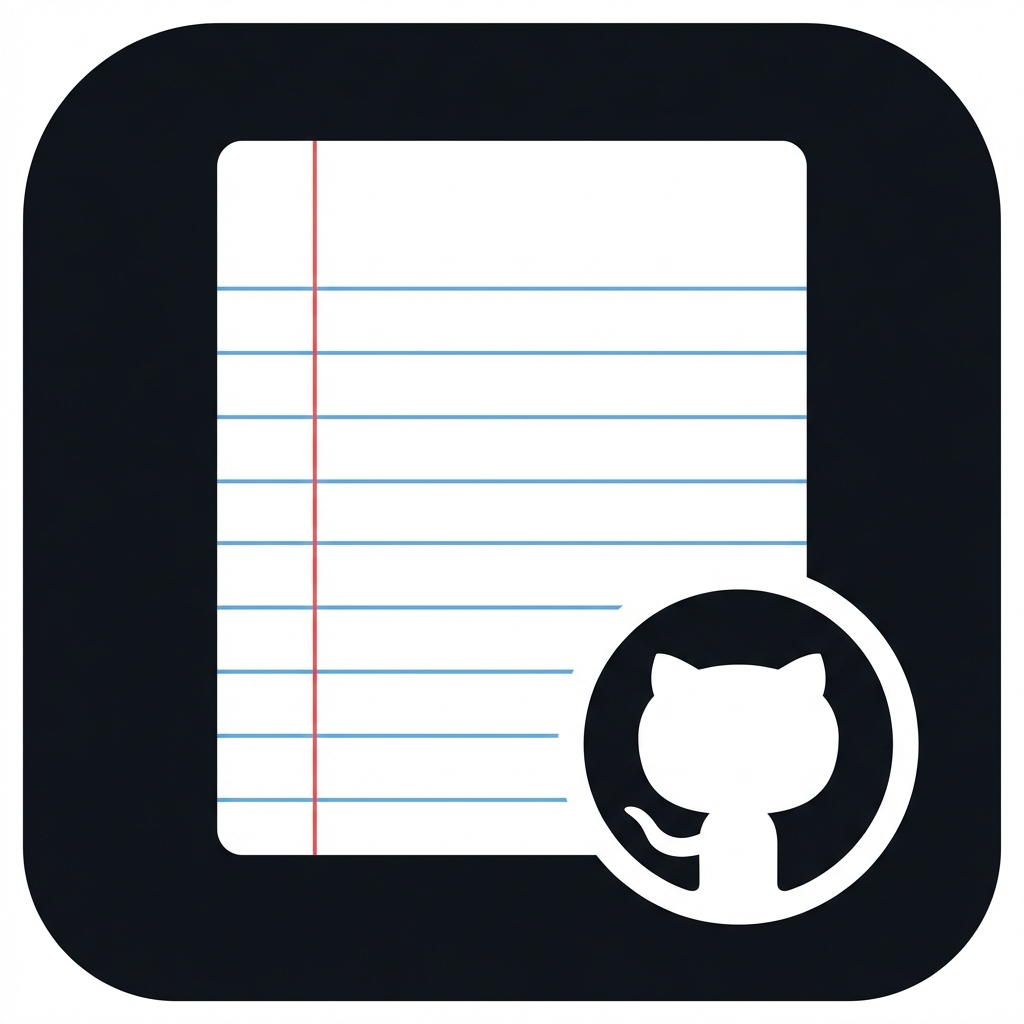
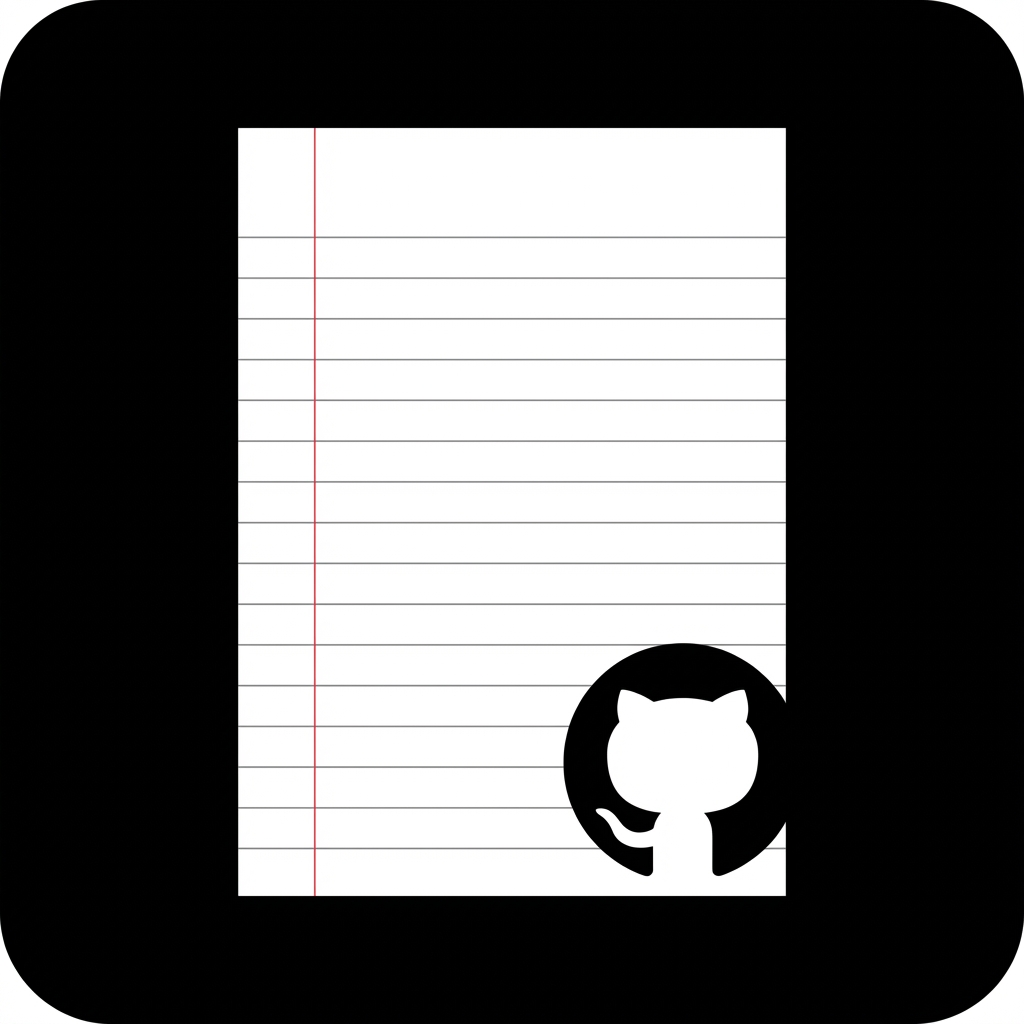
docs: 아이콘 리사이징 및 최종 브랜딩 적용

diff --git a/public/sw.js b/public/sw.js
@@ -1,1 +1,1 @@
-if(!self.define){let e,s={};const a=(a,n)=>(a=new URL(a+".js",n).href,s[a]||new Promise(s=>{if("document"in self){const e=document.createElement("script");e.src=a,e.onload=s,document.head.appendChild(e)}else e=a,importScripts(a),s()}).then(()=>{let e=s[a];if(!e)throw new Error(`Module ${a} didn’t register its module`);return e}));self.define=(n,i)=>{const t=e||("document"in self?document.currentScript.src:"")||location.href;if(s[t])return;let c={};const r=e=>a(e,t),o={module:{uri:t},exports:c,require:r};s[t]=Promise.all(n.map(e=>o[e]||r(e))).then(e=>(i(...e),c))}}define(["./workbox-f1770938"],function(e){"use strict";importScripts(),self.skipWaiting(),e.clientsClaim(),e.precacheAndRoute([{url:"/_next/static/6hmzmkd0MYF7JiPakKbK2/_buildManifest.js",revision:"e0a21c7d7f93d89dce16df0231dc76f2"},{url:"/_next/static/6hmzmkd0MYF7JiPakKbK2/_ssgManifest.js",revision:"b6652df95db52feb4daf4eca35380933"},{url:"/_next/static/chunks/180-604c8f4ec2f58db8.js",revision:"6hmzmkd0MYF7JiPakKbK2"},{url:"/_next/static/chunks/468-7285acba85305d45.js",revision:"6hmzmkd0MYF7JiPakKbK2"},{url:"/_next/static/chunks/app/_not-found-6c78f33d15a58901.js",revision:"6hmzmkd0MYF7JiPakKbK2"},{url:"/_next/static/chunks/app/layout-a98a020aafed7efe.js",revision:"6hmzmkd0MYF7JiPakKbK2"},{url:"/_next/static/chunks/app/page-33529dc1a7c238f2.js",revision:"6hmzmkd0MYF7JiPakKbK2"},{url:"/_next/static/chunks/fd9d1056-8bc4317b1c12f2e6.js",revision:"6hmzmkd0MYF7JiPakKbK2"},{url:"/_next/static/chunks/framework-f66176bb897dc684.js",revision:"6hmzmkd0MYF7JiPakKbK2"},{url:"/_next/static/chunks/main-3cbfa979eff3a76e.js",revision:"6hmzmkd0MYF7JiPakKbK2"},{url:"/_next/static/chunks/main-app-86b9446bc5b3ae5d.js",revision:"6hmzmkd0MYF7JiPakKbK2"},{url:"/_next/static/chunks/pages/_app-75f6107b0260711c.js",revision:"6hmzmkd0MYF7JiPakKbK2"},{url:"/_next/static/chunks/pages/_error-9a890acb1e81c3fc.js",revision:"6hmzmkd0MYF7JiPakKbK2"},{url:"/_next/static/chunks/polyfills-c67a75d1b6f99dc8.js",revision:"837c0df77fd5009c9e46d446188ecfd0"},{url:"/_next/static/chunks/webpack-7d74ff2ed1f095ba.js",revision:"6hmzmkd0MYF7JiPakKbK2"},{url:"/_next/static/css/e151fecdab45ec25.css",revision:"e151fecdab45ec25"},{url:"/fonts/GmarketSansBold.woff",revision:"a252807114e4ef98a545086a5e2f9698"},{url:"/fonts/GmarketSansBold.woff2",revision:"b555b7a3b481f90f596fe901a7e87069"},{url:"/fonts/GmarketSansLight.woff",revision:"fcace465d3f3ac7dfe071fb2867cce69"},{url:"/fonts/GmarketSansLight.woff2",revision:"b555b7a3b481f90f596fe901a7e87069"},{url:"/fonts/GmarketSansMedium.woff",revision:"6e88198f4da954b35aa0e3ffbf688aab"},{url:"/fonts/GmarketSansMedium.woff2",revision:"b555b7a3b481f90f596fe901a7e87069"},{url:"/icon.png",revision:"728b8e9a9bb3586792aa3406abfb4475"},{url:"/icons/icon-192x192.png",revision:"728b8e9a9bb3586792aa3406abfb4475"},{url:"/icons/icon-512x512.png",revision:"728b8e9a9bb3586792aa3406abfb4475"},{url:"/manifest.json",revision:"e673dc4143a1094b7697b9c208baaab2"}],{ignoreURLParametersMatching:[/^utm_/,/^fbclid$/]}),e.cleanupOutdatedCaches(),e.registerRoute("/",new e.NetworkFirst({cacheName:"start-url",plugins:[{cacheWillUpdate:async({response:e})=>e&&"opaqueredirect"===e.type?new Response(e.body,{status:200,statusText:"OK",headers:e.headers}):e}]}),"GET"),e.registerRoute(/^https:\/\/fonts\.(?:gstatic)\.com\/.*/i,new e.CacheFirst({cacheName:"google-fonts-webfonts",plugins:[new e.ExpirationPlugin({maxEntries:4,maxAgeSeconds:31536e3})]}),"GET"),e.registerRoute(/^https:\/\/fonts\.(?:googleapis)\.com\/.*/i,new e.StaleWhileRevalidate({cacheName:"google-fonts-stylesheets",plugins:[new e.ExpirationPlugin({maxEntries:4,maxAgeSeconds:604800})]}),"GET"),e.registerRoute(/\.(?:eot|otf|ttc|ttf|woff|woff2|font.css)$/i,new e.StaleWhileRevalidate({cacheName:"static-font-assets",plugins:[new e.ExpirationPlugin({maxEntries:4,maxAgeSeconds:604800})]}),"GET"),e.registerRoute(/\.(?:jpg|jpeg|gif|png|svg|ico|webp)$/i,new e.StaleWhileRevalidate({cacheName:"static-image-assets",plugins:[new e.ExpirationPlugin({maxEntries:64,maxAgeSeconds:2592e3})]}),"GET"),e.registerRoute(/\/_next\/static.+\.js$/i,new e.CacheFirst({cacheName:"next-static-js-assets",plugins:[new e.ExpirationPlugin({maxEntries:64,maxAgeSeconds:86400})]}),"GET"),e.registerRoute(/\/_next\/image\?url=.+$/i,new e.StaleWhileRevalidate({cacheName:"next-image",plugins:[new e.ExpirationPlugin({maxEntries:64,maxAgeSeconds:86400})]}),"GET"),e.registerRoute(/\.(?:mp3|wav|ogg)$/i,new e.CacheFirst({cacheName:"static-audio-assets",plugins:[new e.RangeRequestsPlugin,new e.ExpirationPlugin({maxEntries:32,maxAgeSeconds:86400})]}),"GET"),e.registerRoute(/\.(?:mp4|webm)$/i,new e.CacheFirst({cacheName:"static-video-assets",plugins:[new e.RangeRequestsPlugin,new e.ExpirationPlugin({maxEntries:32,maxAgeSeconds:86400})]}),"GET"),e.registerRoute(/\.(?:js)$/i,new e.StaleWhileRevalidate({cacheName:"static-js-assets",plugins:[new e.ExpirationPlugin({maxEntries:48,maxAgeSeconds:86400})]}),"GET"),e.registerRoute(/\.(?:css|less)$/i,new e.StaleWhileRevalidate({cacheName:"static-style-assets",plugins:[new e.ExpirationPlugin({maxEntries:32,maxAgeSeconds:86400})]}),"GET"),e.registerRoute(/\/_next\/data\/.+\/.+\.json$/i,new e.StaleWhileRevalidate({cacheName:"next-data",plugins:[new e.ExpirationPlugin({maxEntries:32,maxAgeSeconds:86400})]}),"GET"),e.registerRoute(/\.(?:json|xml|csv)$/i,new e.NetworkFirst({cacheName:"static-data-assets",plugins:[new e.ExpirationPlugin({maxEntries:32,maxAgeSeconds:86400})]}),"GET"),e.registerRoute(({sameOrigin:e,url:{pathname:s}})=>!(!e||s.startsWith("/api/auth/callback")||!s.startsWith("/api/")),new e.NetworkFirst({cacheName:"apis",networkTimeoutSeconds:10,plugins:[new e.ExpirationPlugin({maxEntries:16,maxAgeSeconds:86400})]}),"GET"),e.registerRoute(({request:e,url:{pathname:s},sameOrigin:a})=>"1"===e.headers.get("RSC")&&"1"===e.headers.get("Next-Router-Prefetch")&&a&&!s.startsWith("/api/"),new e.NetworkFirst({cacheName:"pages-rsc-prefetch",plugins:[new e.ExpirationPlugin({maxEntries:32,maxAgeSeconds:86400})]}),"GET"),e.registerRoute(({request:e,url:{pathname:s},sameOrigin:a})=>"1"===e.headers.get("RSC")&&a&&!s.startsWith("/api/"),new e.NetworkFirst({cacheName:"pages-rsc",plugins:[new e.ExpirationPlugin({maxEntries:32,maxAgeSeconds:86400})]}),"GET"),e.registerRoute(({url:{pathname:e},sameOrigin:s})=>s&&!e.startsWith("/api/"),new e.NetworkFirst({cacheName:"pages",plugins:[new e.ExpirationPlugin({maxEntries:32,maxAgeSeconds:86400})]}),"GET"),e.registerRoute(({sameOrigin:e})=>!e,new e.NetworkFirst({cacheName:"cross-origin",networkTimeoutSeconds:10,plugins:[new e.ExpirationPlugin({maxEntries:32,maxAgeSeconds:3600})]}),"GET")});
+if(!self.define){let e,s={};const a=(a,n)=>(a=new URL(a+".js",n).href,s[a]||new Promise(s=>{if("document"in self){const e=document.createElement("script");e.src=a,e.onload=s,document.head.appendChild(e)}else e=a,importScripts(a),s()}).then(()=>{let e=s[a];if(!e)throw new Error(`Module ${a} didn’t register its module`);return e}));self.define=(n,i)=>{const t=e||("document"in self?document.currentScript.src:"")||location.href;if(s[t])return;let c={};const r=e=>a(e,t),o={module:{uri:t},exports:c,require:r};s[t]=Promise.all(n.map(e=>o[e]||r(e))).then(e=>(i(...e),c))}}define(["./workbox-f1770938"],function(e){"use strict";importScripts(),self.skipWaiting(),e.clientsClaim(),e.precacheAndRoute([{url:"/_next/static/chunks/180-604c8f4ec2f58db8.js",revision:"mV5MdL1VK3Y1AVW0QuycN"},{url:"/_next/static/chunks/468-7285acba85305d45.js",revision:"mV5MdL1VK3Y1AVW0QuycN"},{url:"/_next/static/chunks/app/_not-found-6c78f33d15a58901.js",revision:"mV5MdL1VK3Y1AVW0QuycN"},{url:"/_next/static/chunks/app/layout-a98a020aafed7efe.js",revision:"mV5MdL1VK3Y1AVW0QuycN"},{url:"/_next/static/chunks/app/page-84d94ff62b9900d3.js",revision:"mV5MdL1VK3Y1AVW0QuycN"},{url:"/_next/static/chunks/fd9d1056-8bc4317b1c12f2e6.js",revision:"mV5MdL1VK3Y1AVW0QuycN"},{url:"/_next/static/chunks/framework-f66176bb897dc684.js",revision:"mV5MdL1VK3Y1AVW0QuycN"},{url:"/_next/static/chunks/main-3cbfa979eff3a76e.js",revision:"mV5MdL1VK3Y1AVW0QuycN"},{url:"/_next/static/chunks/main-app-86b9446bc5b3ae5d.js",revision:"mV5MdL1VK3Y1AVW0QuycN"},{url:"/_next/static/chunks/pages/_app-75f6107b0260711c.js",revision:"mV5MdL1VK3Y1AVW0QuycN"},{url:"/_next/static/chunks/pages/_error-9a890acb1e81c3fc.js",revision:"mV5MdL1VK3Y1AVW0QuycN"},{url:"/_next/static/chunks/polyfills-c67a75d1b6f99dc8.js",revision:"837c0df77fd5009c9e46d446188ecfd0"},{url:"/_next/static/chunks/webpack-7d74ff2ed1f095ba.js",revision:"mV5MdL1VK3Y1AVW0QuycN"},{url:"/_next/static/css/e151fecdab45ec25.css",revision:"e151fecdab45ec25"},{url:"/_next/static/mV5MdL1VK3Y1AVW0QuycN/_buildManifest.js",revision:"e0a21c7d7f93d89dce16df0231dc76f2"},{url:"/_next/static/mV5MdL1VK3Y1AVW0QuycN/_ssgManifest.js",revision:"b6652df95db52feb4daf4eca35380933"},{url:"/fonts/GmarketSansBold.woff",revision:"a252807114e4ef98a545086a5e2f9698"},{url:"/fonts/GmarketSansBold.woff2",revision:"b555b7a3b481f90f596fe901a7e87069"},{url:"/fonts/GmarketSansLight.woff",revision:"fcace465d3f3ac7dfe071fb2867cce69"},{url:"/fonts/GmarketSansLight.woff2",revision:"b555b7a3b481f90f596fe901a7e87069"},{url:"/fonts/GmarketSansMedium.woff",revision:"6e88198f4da954b35aa0e3ffbf688aab"},{url:"/fonts/GmarketSansMedium.woff2",revision:"b555b7a3b481f90f596fe901a7e87069"},{url:"/icon.png",revision:"728b8e9a9bb3586792aa3406abfb4475"},{url:"/icons/icon-192x192.png",revision:"728b8e9a9bb3586792aa3406abfb4475"},{url:"/icons/icon-512x512.png",revision:"728b8e9a9bb3586792aa3406abfb4475"},{url:"/manifest.json",revision:"e673dc4143a1094b7697b9c208baaab2"}],{ignoreURLParametersMatching:[/^utm_/,/^fbclid$/]}),e.cleanupOutdatedCaches(),e.registerRoute("/",new e.NetworkFirst({cacheName:"start-url",plugins:[{cacheWillUpdate:async({response:e})=>e&&"opaqueredirect"===e.type?new Response(e.body,{status:200,statusText:"OK",headers:e.headers}):e}]}),"GET"),e.registerRoute(/^https:\/\/fonts\.(?:gstatic)\.com\/.*/i,new e.CacheFirst({cacheName:"google-fonts-webfonts",plugins:[new e.ExpirationPlugin({maxEntries:4,maxAgeSeconds:31536e3})]}),"GET"),e.registerRoute(/^https:\/\/fonts\.(?:googleapis)\.com\/.*/i,new e.StaleWhileRevalidate({cacheName:"google-fonts-stylesheets",plugins:[new e.ExpirationPlugin({maxEntries:4,maxAgeSeconds:604800})]}),"GET"),e.registerRoute(/\.(?:eot|otf|ttc|ttf|woff|woff2|font.css)$/i,new e.StaleWhileRevalidate({cacheName:"static-font-assets",plugins:[new e.ExpirationPlugin({maxEntries:4,maxAgeSeconds:604800})]}),"GET"),e.registerRoute(/\.(?:jpg|jpeg|gif|png|svg|ico|webp)$/i,new e.StaleWhileRevalidate({cacheName:"static-image-assets",plugins:[new e.ExpirationPlugin({maxEntries:64,maxAgeSeconds:2592e3})]}),"GET"),e.registerRoute(/\/_next\/static.+\.js$/i,new e.CacheFirst({cacheName:"next-static-js-assets",plugins:[new e.ExpirationPlugin({maxEntries:64,maxAgeSeconds:86400})]}),"GET"),e.registerRoute(/\/_next\/image\?url=.+$/i,new e.StaleWhileRevalidate({cacheName:"next-image",plugins:[new e.ExpirationPlugin({maxEntries:64,maxAgeSeconds:86400})]}),"GET"),e.registerRoute(/\.(?:mp3|wav|ogg)$/i,new e.CacheFirst({cacheName:"static-audio-assets",plugins:[new e.RangeRequestsPlugin,new e.ExpirationPlugin({maxEntries:32,maxAgeSeconds:86400})]}),"GET"),e.registerRoute(/\.(?:mp4|webm)$/i,new e.CacheFirst({cacheName:"static-video-assets",plugins:[new e.RangeRequestsPlugin,new e.ExpirationPlugin({maxEntries:32,maxAgeSeconds:86400})]}),"GET"),e.registerRoute(/\.(?:js)$/i,new e.StaleWhileRevalidate({cacheName:"static-js-assets",plugins:[new e.ExpirationPlugin({maxEntries:48,maxAgeSeconds:86400})]}),"GET"),e.registerRoute(/\.(?:css|less)$/i,new e.StaleWhileRevalidate({cacheName:"static-style-assets",plugins:[new e.ExpirationPlugin({maxEntries:32,maxAgeSeconds:86400})]}),"GET"),e.registerRoute(/\/_next\/data\/.+\/.+\.json$/i,new e.StaleWhileRevalidate({cacheName:"next-data",plugins:[new e.ExpirationPlugin({maxEntries:32,maxAgeSeconds:86400})]}),"GET"),e.registerRoute(/\.(?:json|xml|csv)$/i,new e.NetworkFirst({cacheName:"static-data-assets",plugins:[new e.ExpirationPlugin({maxEntries:32,maxAgeSeconds:86400})]}),"GET"),e.registerRoute(({sameOrigin:e,url:{pathname:s}})=>!(!e||s.startsWith("/api/auth/callback")||!s.startsWith("/api/")),new e.NetworkFirst({cacheName:"apis",networkTimeoutSeconds:10,plugins:[new e.ExpirationPlugin({maxEntries:16,maxAgeSeconds:86400})]}),"GET"),e.registerRoute(({request:e,url:{pathname:s},sameOrigin:a})=>"1"===e.headers.get("RSC")&&"1"===e.headers.get("Next-Router-Prefetch")&&a&&!s.startsWith("/api/"),new e.NetworkFirst({cacheName:"pages-rsc-prefetch",plugins:[new e.ExpirationPlugin({maxEntries:32,maxAgeSeconds:86400})]}),"GET"),e.registerRoute(({request:e,url:{pathname:s},sameOrigin:a})=>"1"===e.headers.get("RSC")&&a&&!s.startsWith("/api/"),new e.NetworkFirst({cacheName:"pages-rsc",plugins:[new e.ExpirationPlugin({maxEntries:32,maxAgeSeconds:86400})]}),"GET"),e.registerRoute(({url:{pathname:e},sameOrigin:s})=>s&&!e.startsWith("/api/"),new e.NetworkFirst({cacheName:"pages",plugins:[new e.ExpirationPlugin({maxEntries:32,maxAgeSeconds:86400})]}),"GET"),e.registerRoute(({sameOrigin:e})=>!e,new e.NetworkFirst({cacheName:"cross-origin",networkTimeoutSeconds:10,plugins:[new e.ExpirationPlugin({maxEntries:32,maxAgeSeconds:3600})]}),"GET")});

diff --git a/src/components/MemoApp.tsx b/src/components/MemoApp.tsx
@@ -28,6 +28,13 @@ export function MemoApp() {
         const localMemos = storage.getMemos();
         localMemos.sort((a, b) => b.slug.localeCompare(a.slug)); // Sort initial load
         setMemos(localMemos);
+
+        // Auto-select most recent memo if available
+        if (localMemos.length > 0) {
+            setCurrentSlug(localMemos[0].slug);
+            setContent(localMemos[0].content);
+        }
+
         performSync("pull"); // Attempt to pull latest changes on load
     }, []);
 

diff --git a/README.md b/README.md
@@ -3,7 +3,7 @@
 **GH Memo**는 GitHub 저장소를 백엔드로 사용하는 서버리스(Serverless) 메모 애플리케이션입니다. 
 당신의 소중한 기록은 당신의 GitHub 저장소(`all-the-notes-of-my-world` 등)에 안전하게 저장되며, 앱은 오직 브라우저에서만 동작하여 완벽한 개인정보 보호를 제공합니다.
 
-![App Icon](./public/icon.png)
+<img src="./public/icon.png" width="120" alt="App Icon">
 
 ## ✨ 주요 기능 (Key Features)
 
